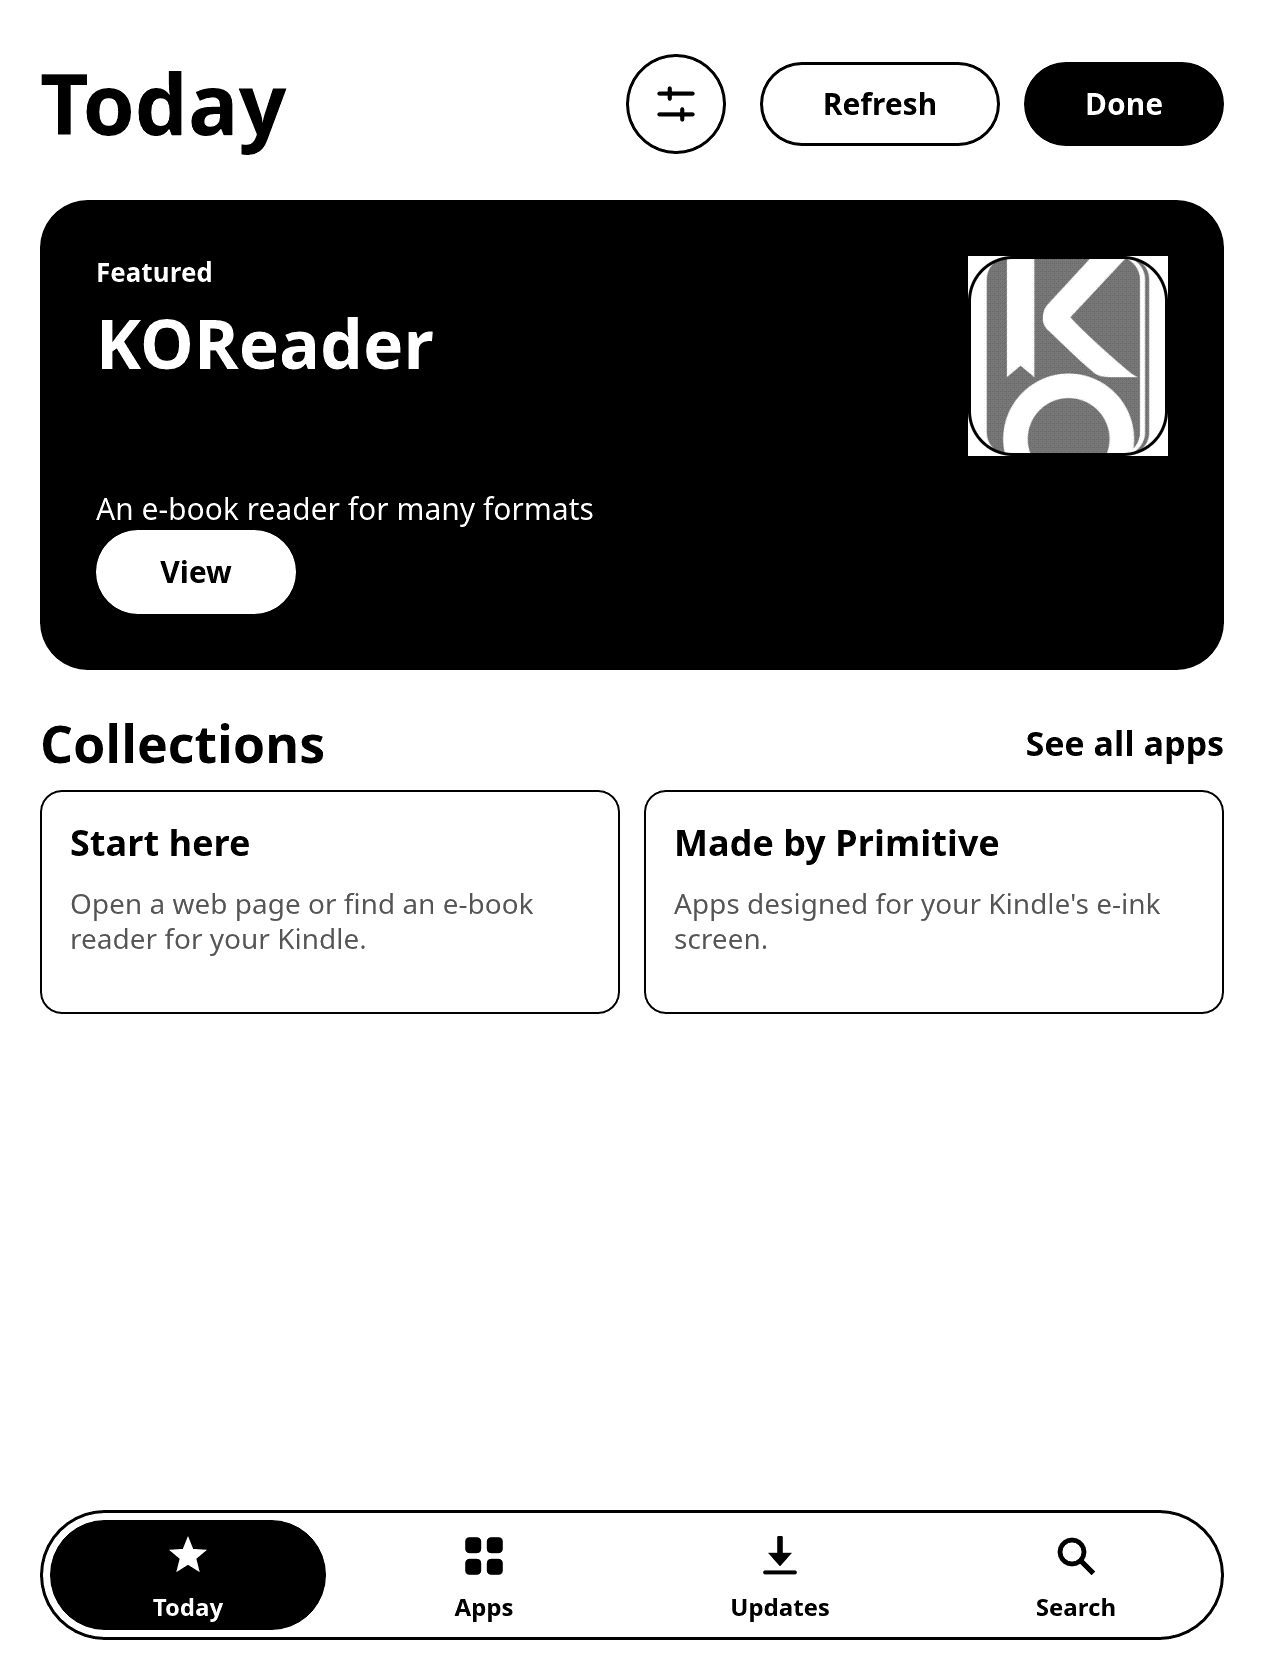
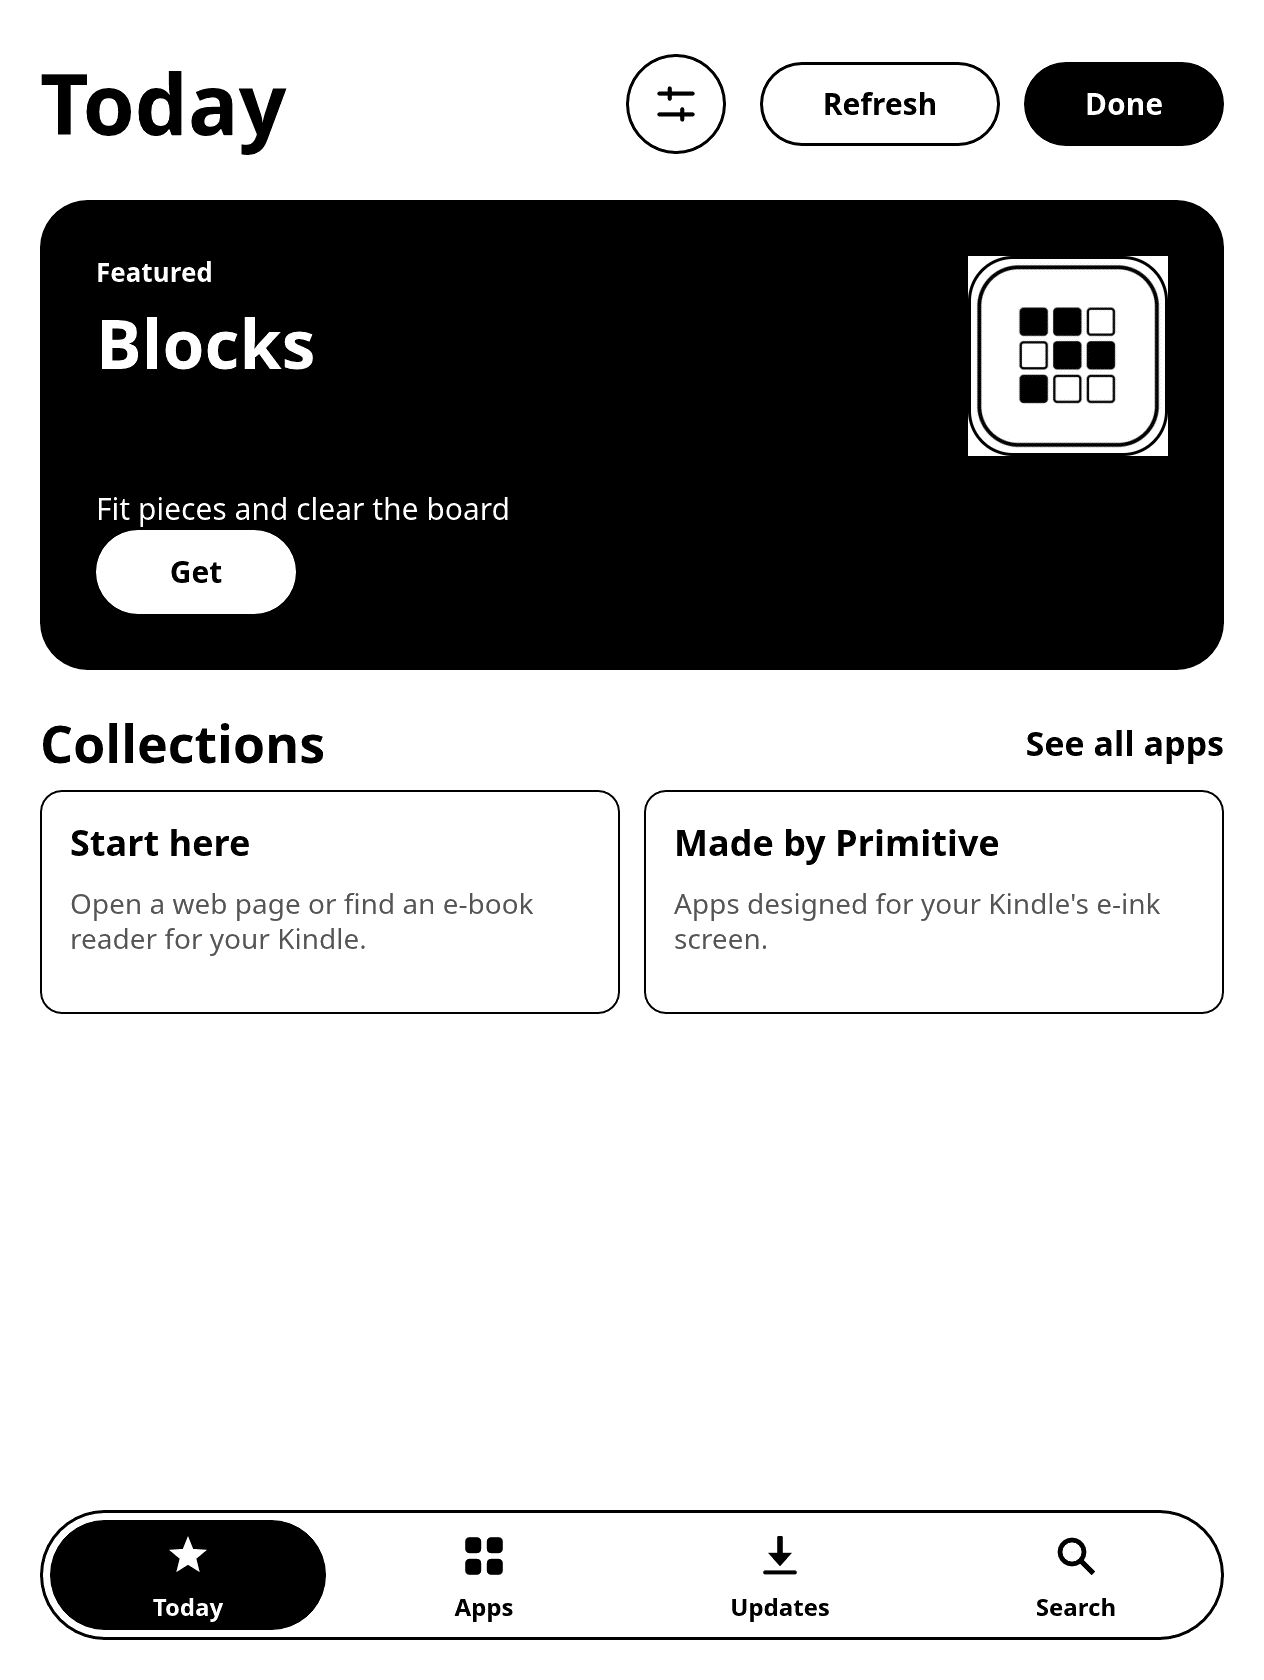
Refresh Store screenshots with the final app names

diff --git a/README.md b/README.md
@@ -23,8 +23,8 @@ The Store is a standalone Rust application that uses Primitive Launcher's fonts 
     <td align="center"><img src="docs/images/store-search-keyboard.png" alt="Search for Browser with the on-screen keyboard" width="260"><br><sub>Find an app by name</sub></td>
   </tr>
   <tr>
-    <td align="center"><img src="docs/images/store-app.png" alt="Primitive Blocks app page showing version, size, and firmware" width="260"><br><sub>Read an app's details</sub></td>
-    <td align="center"><img src="docs/images/store-install-sheet.png" alt="Install confirmation showing what Primitive Blocks changes" width="260"><br><sub>Review changes before installing</sub></td>
+    <td align="center"><img src="docs/images/store-app.png" alt="Blocks app page showing version, size, and firmware" width="260"><br><sub>Read an app's details</sub></td>
+    <td align="center"><img src="docs/images/store-install-sheet.png" alt="Install confirmation showing what Blocks changes" width="260"><br><sub>Review changes before installing</sub></td>
     <td align="center"><img src="docs/images/store-updates.png" alt="Updates tab with one update ready and an Update all button" width="260"><br><sub>See what can be updated</sub></td>
   </tr>
 </table>
@@ -80,5 +80,3 @@ Copyright (C) 2026 Doan Nguyen.
 - **Original documentation and pictures**, including this README and its screenshots, are licensed under
   CC BY-NC-SA 4.0. [Documentation and pictures licence](LICENSE-DOCS)
 - **Shared Tools** is available under AGPL-3.0 or PolyForm Noncommercial 1.0.0. [Shared Tools](tools/)
-- **KOReader artwork** in the catalogue screenshots is credited to the KOReader project and retains its own terms.
-  [KOReader](https://github.com/koreader/koreader)
